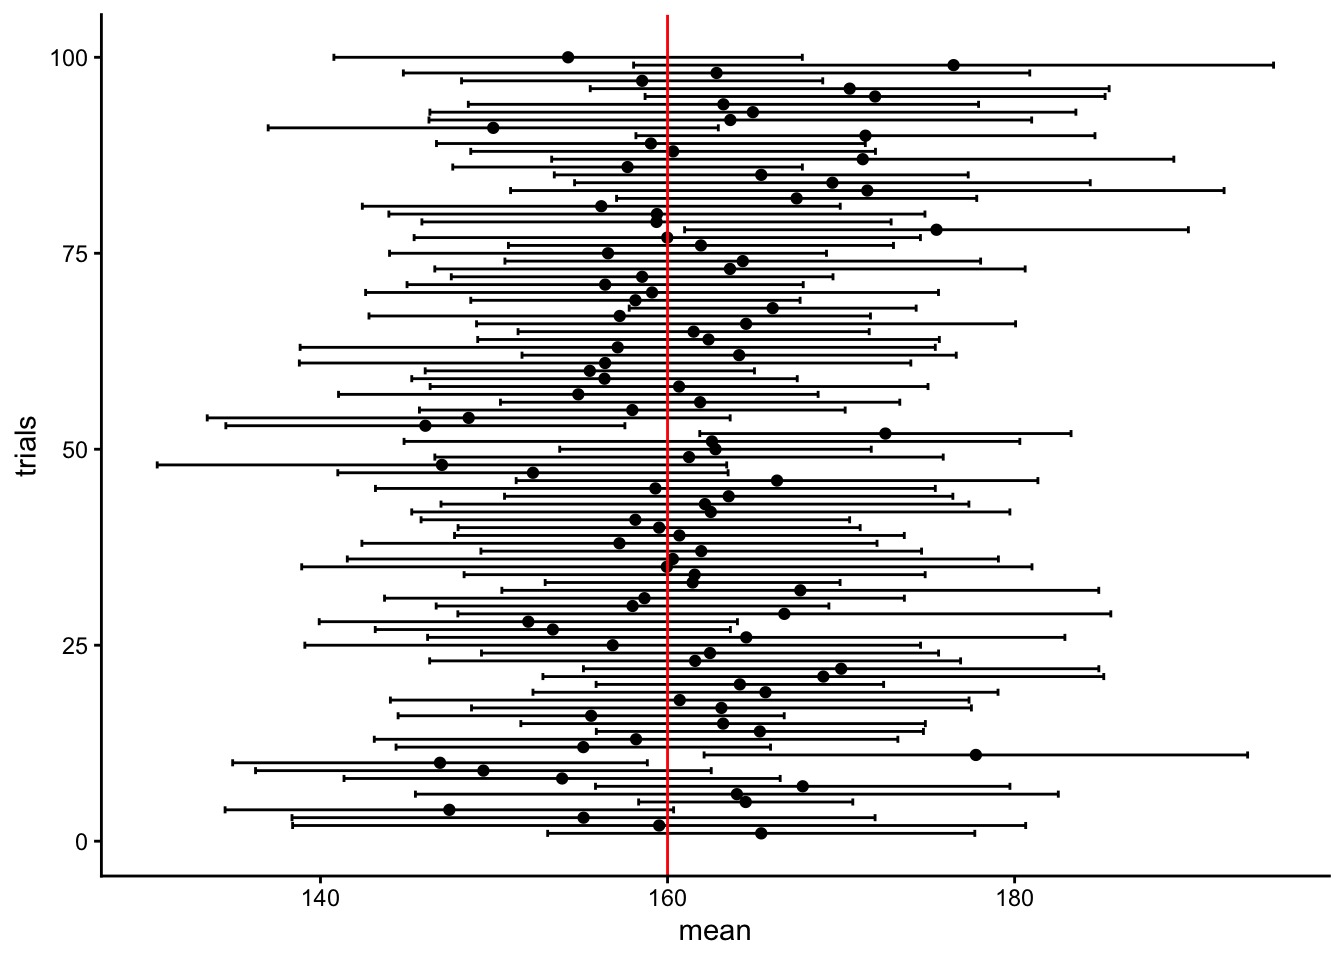
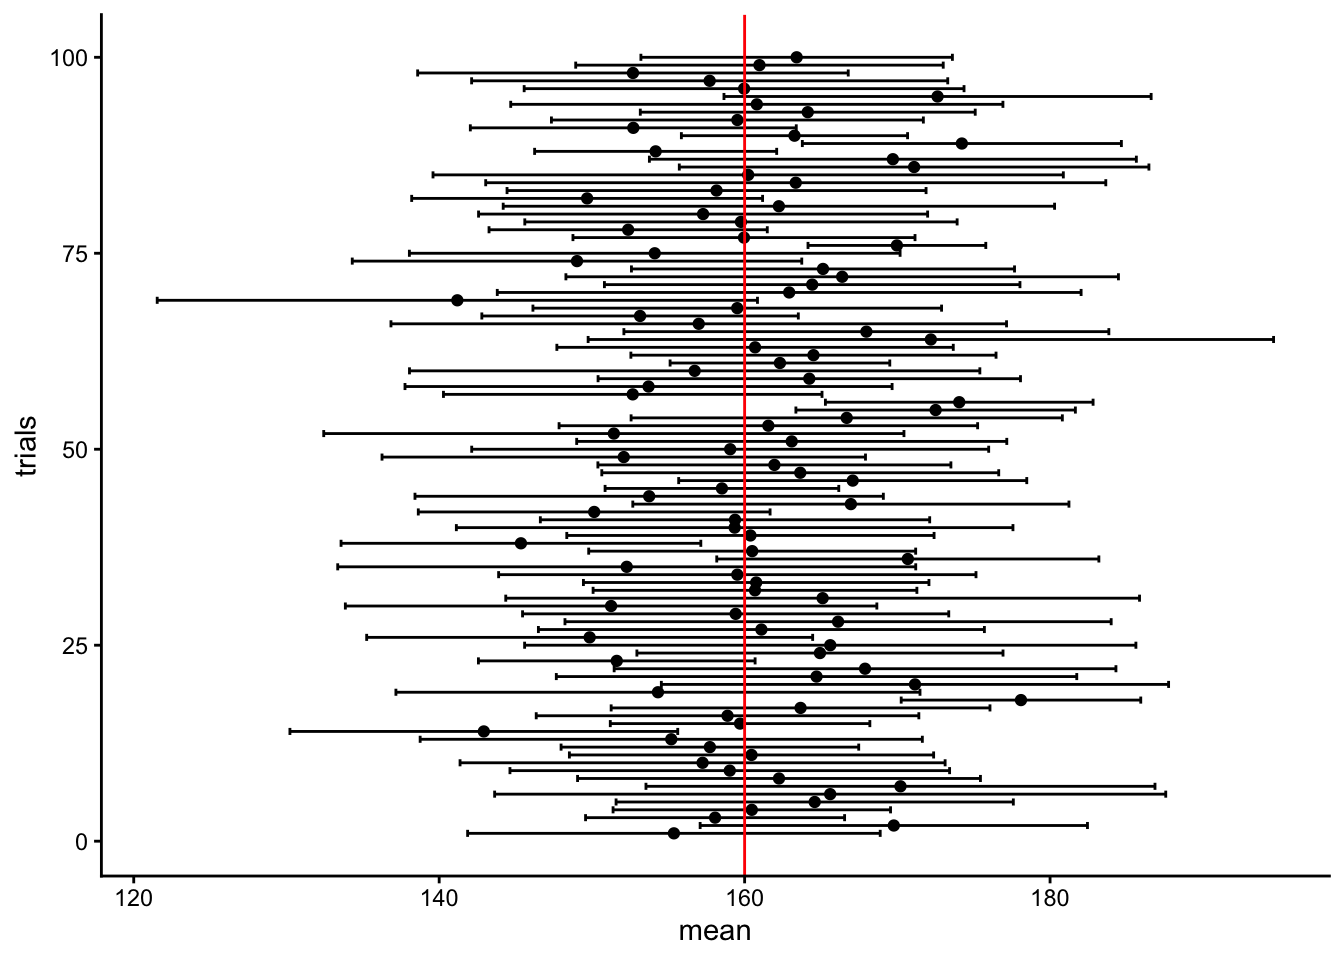
OneDriveの項目を削除し、winの権限エラー対処に差し替え
OneDriveがパッケージを壊すという記述は誤りだったため削除。
R 4.2.0(2022-04)以降、Windowsの個人ライブラリは Documents から
%LOCALAPPDATA%/R/win-library/ に移っており、OneDriveの同期対象外
（CRAN R for Windows FAQ で確認）。ネット上の情報は2020-2022年の
古いものだった。

代わりに2026年春のSDS入門で実際に発生した症状（install.packages()
が権限エラーで通らない、75名中3名）への対処を記載した。原因は
未特定のため、症状ベースで対処のみ挙げている。

- RStudioを管理者として実行
- ウイルス対策ソフトの一時停止
- 解決しない場合は相談するよう誘導

あわせてCLAUDE.mdに経緯を記録した。今年発生した場合にエラー全文と
セキュリティソフト名を控えれば、来年以降の原因特定につながる。

diff --git a/CLAUDE.md b/CLAUDE.md
@@ -103,6 +103,25 @@ XQuartzを入れられない環境で暫定ビルドする場合は、
 
 ## 🚨 トラブルシューティング
 
+### 受講者のインストール問題（既知・未解決）
+2026年春のSDS入門で `install.packages()` が通らない学生が75名中3名発生した。
+**管理者権限でRStudioを実行しても不可**のケースがあり、原因は特定できていない。
+疑われたのはOneDriveのパス競合とウイルス対策ソフトのブロックだが、確定していない。
+
+なお **OneDrive説は考えにくい**。R 4.2.0 (2022-04) 以降、Windowsの個人ライブラリは
+`Documents` ではなく `%LOCALAPPDATA%/R/win-library/`（OneDrive同期対象外）に変わった
+（CRAN R for Windows FAQ）。ネット上の「OneDriveでRが壊れる」記事は2020-2022年の
+古い情報なので鵜呑みにしないこと。
+
+index.Rmd の「うまくいかないときは」には、原因が不明なまま対処だけを症状ベースで
+記載している（管理者として実行、ウイルス対策の一時停止、type="binary"、最後はColab）。
+今年また発生したら、エラーメッセージ全文とセキュリティソフト名を控えておくと
+来年以降の特定につながる。
+
+春はbase Rのみの `.R` 版を並列配布して救済した。本科目はそもそも `.R` 運用だが
+tidyverse必須のため、同じ手は使えない。Colabに逃がすのが早い。
+
+
 ### knitが途中で止まる（エラー表示なし）
 → ほぼ確実に `rgl`/XQuartz 問題。上記「rgl と XQuartz」を参照。
 
